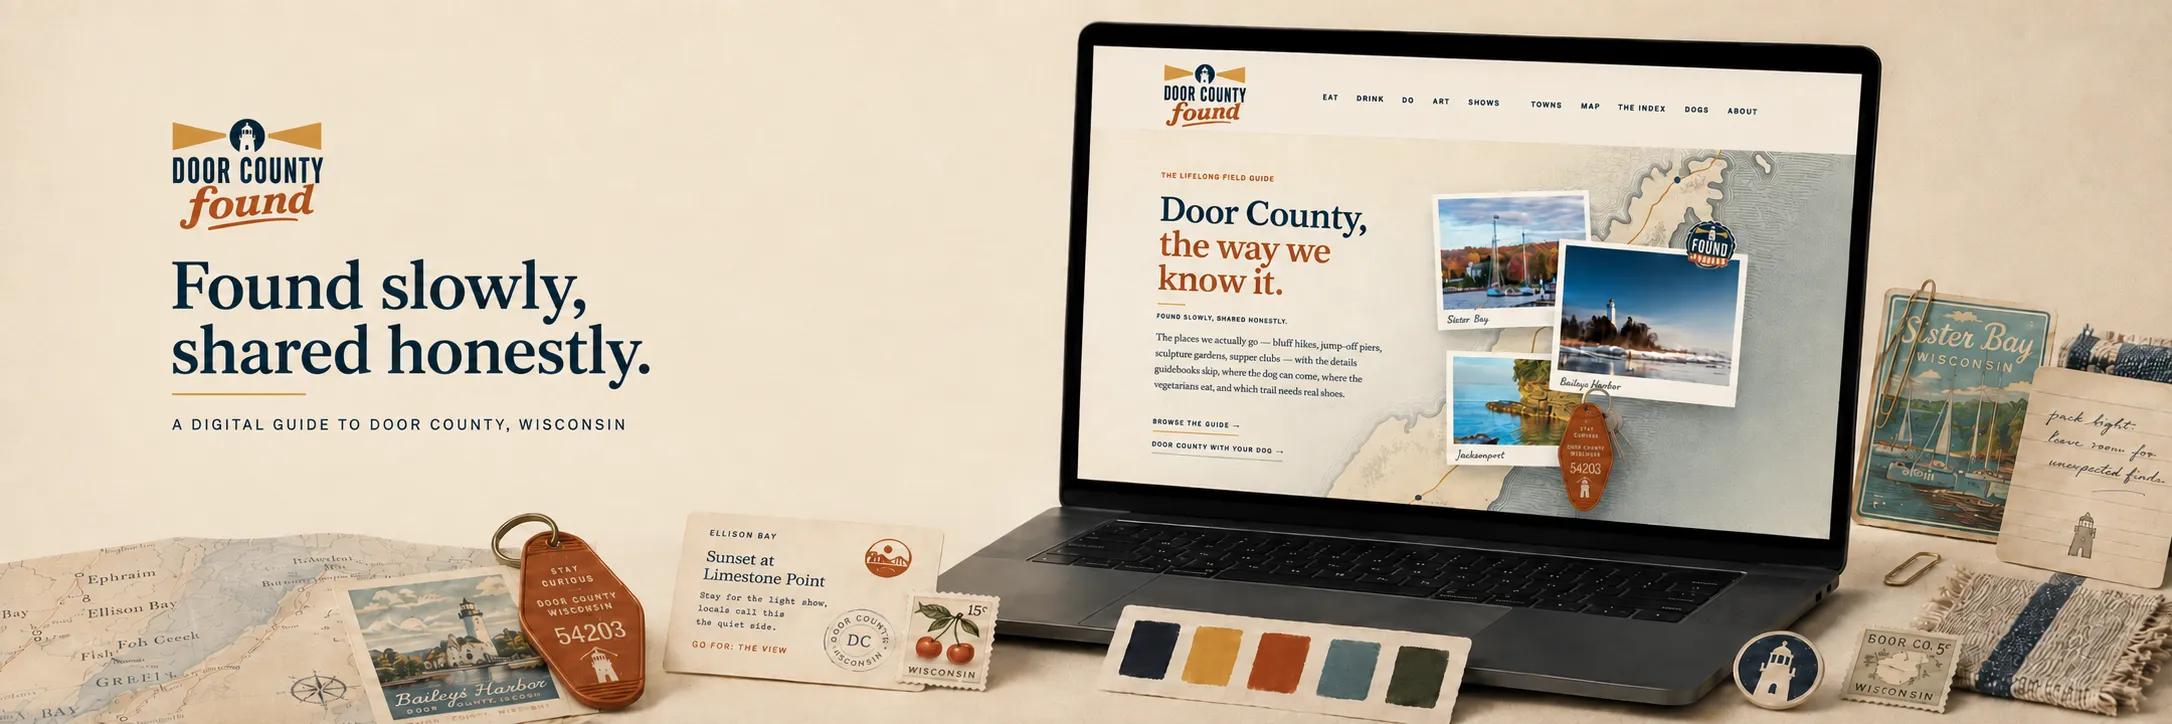
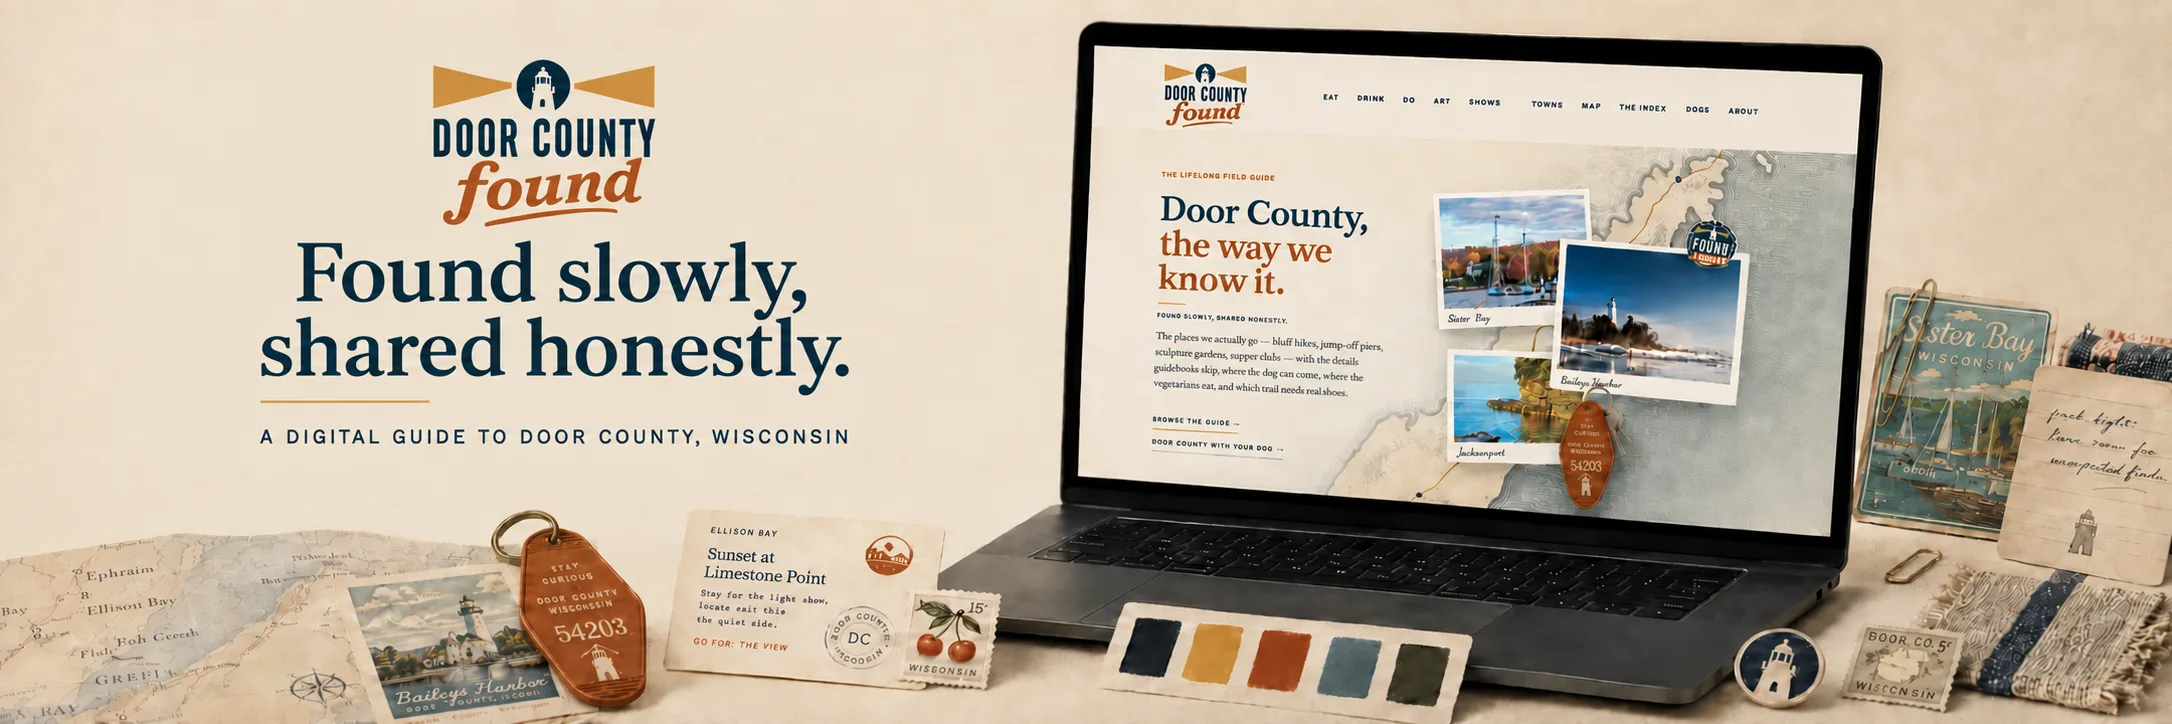
The Door County campaign frame is the recomposed image
Swaps img/dcf/campaign.webp for the new render from Downloads: the same
composition, the same 2172x724, with the identity and headline set larger
at left. Encoded through Chromium at 0.82 like the rest of img/dcf/, and
the cache-buster on the only tag pointing at it moves from v=3 to v=4.

Asset swap under the carve-out: the diff is the file and that src
attribute. resting.mjs and states.mjs --strict both pass the page at the
same counts as origin/main (80 resting measurements; 60 measurements
across 67 state rules). The alt text still describes what is in frame.

diff --git a/case-study/door-county-found.html b/case-study/door-county-found.html
@@ -293,7 +293,7 @@
 
 
         <figure class="build-shot">
-          <img src="../img/dcf/campaign.webp?v=3" width="2172" height="724" fetchpriority="high" decoding="async"
+          <img src="../img/dcf/campaign.webp?v=4" width="2172" height="724" fetchpriority="high" decoding="async"
                alt="The Door County Found identity laid out flat: at left the Door County Found logo &mdash; a white lighthouse in a navy disc, gold beams spreading either side of it, the name in navy capitals above the word &ldquo;found&rdquo; underlined in rust script &mdash; then the headline &ldquo;Found slowly, shared honestly.&rdquo; and beneath it &ldquo;a digital guide to Door County, Wisconsin.&rdquo; At right a laptop stands open on the site&rsquo;s front page &mdash; &ldquo;Door County, the way we know it,&rdquo; a drawn map of the peninsula, and pinned polaroids of Sister Bay, Baileys Harbor and Jacksonport. Around it on cream paper: a folded nautical chart of the shoreline, a Baileys Harbor lighthouse postcard, a leather motel keyfob stamped &ldquo;stay curious,&rdquo; a fifteen-cent cherry stamp, a strip of five cloth swatches in navy, gold, rust, teal and green, and a handwritten note reading &ldquo;pack light, leave room for unexpected finds.&rdquo;" />
           <figcaption>The identity and the site in one frame. The palette is the peninsula&rsquo;s own ephemera &mdash; motel fobs, cherry stamps, folded charts &mdash; and the front page is built from the same 58 vouched-for entries the guide runs on. Cream paper, harbor navy, beacon gold, hand-built rather than themed.</figcaption>
         </figure>
